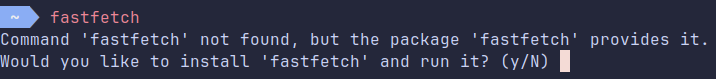
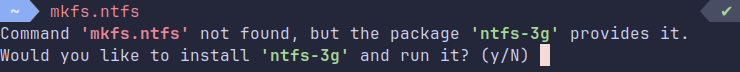
make the text prettier and update readme

diff --git a/README.md b/README.md
@@ -5,4 +5,9 @@ A Zsh plugin that suggests Pacman packages for missing commands, inspired by Fed
 <img src="./assets/preview.png" alt="Screenshot" />
 
 ## Installation
-Simply source the `zsh-pacman-command-not-found.plugin.zsh` file in your `.zshrc` configuration file.
+If you don't use any plugin manager like [Zinit](https://github.com/zdharma-continuum/zinit), simply source the `zsh-pacman-command-not-found.plugin.zsh` file in your `.zshrc` configuration file:
+
+**But if you do**, add `upslaught/zsh-pacman-command-not-found` prefixed by your plugin manager's command to load plugins, for example:
+```bash
+zinit load upslaught/zsh-pacman-command-not-found
+```
